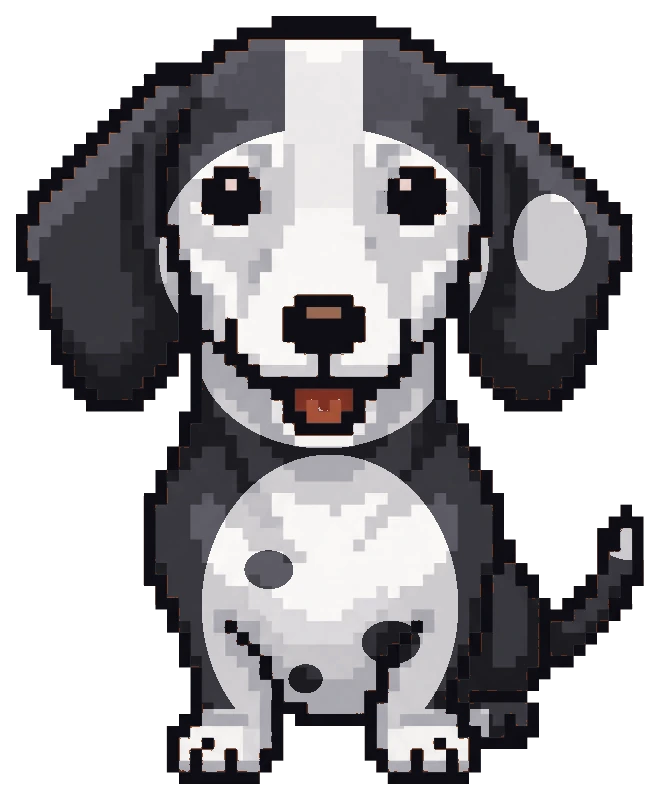
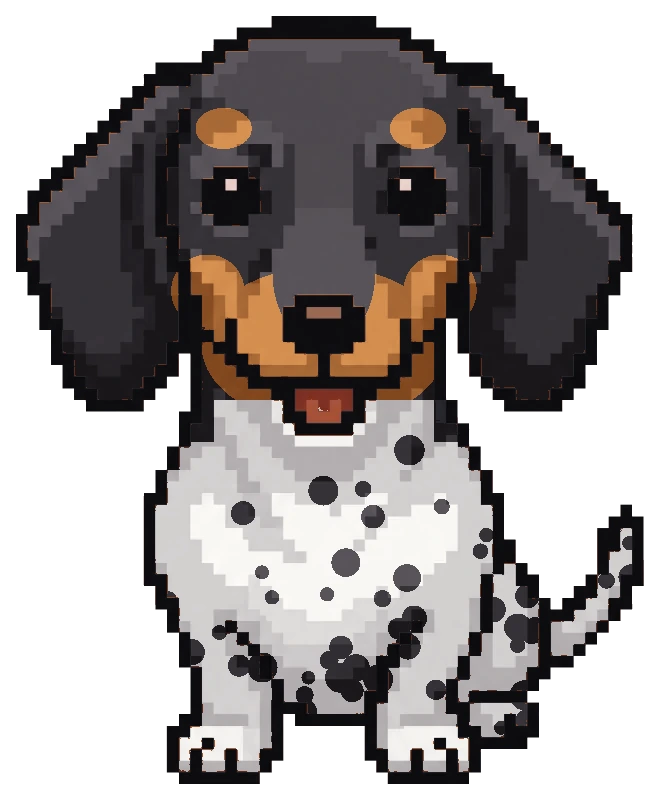
[도트 강아지] 닥스훈트를 블랙 앤 탄 대플로 — 검은 머리·탄 눈썹·주둥이, 흰 몸에 검은 잔점
Claude-Session: https://claude.ai/code/session_01D364GF868k3HTded8WiX4b

Changed region(s): [[0.2121, 0.0312, 0.9697, 0.9375], [0.3636, 0.6875, 0.4545, 0.75], [0.4848, 0.6875, 0.5455, 0.75]]

diff --git a/azit-room.js b/azit-room.js
@@ -20,7 +20,7 @@
     { id: 'maltese',   breed: '말티즈',   fur: '#e8e6df', sizes: 's' },
     { id: 'knit',      breed: '파란 니트', fur: '',        sizes: '' },    // 니트를 입은 그림이라 대신 보여 주기엔 안 씀(고르기만)
     { id: 'chihuahua', breed: '치와와',   fur: '#d6a874', sizes: 's' },
-    { id: 'dachs',     breed: '닥스훈트', fur: '#3a3a40', sizes: 'sm' },   // 11/27 검정·흰 얼룩으로 다시 칠함(_dev/dachs-piebald.py) — 털색 맞추기도 짙은 색 쪽
+    { id: 'dachs',     breed: '닥스훈트', fur: '#3a3a40', sizes: 'sm' },   // 11/27 블랙 앤 탄 대플로 다시 칠함(_dev/dachs-piebald.py) — 털색 맞추기도 짙은 색 쪽
     { id: 'jindo',     breed: '진돗개',   fur: '#f0e6d6', sizes: 'ml' },
     { id: 'shiba',     breed: '시바',     fur: '#e2a464', sizes: 'ml' }
   ];
@@ -507,7 +507,7 @@
     guessDog: guessDog, dogFromBreed: dogFromBreed, myDog: myDog,
     loadState: loadState, saveState: saveState, unlockedItems: unlockedItems, placedItems: placedItems, accOn: accOn,
     snapshot: snapshot, mySnapshot: mySnapshot, parseRoom: parseRoom, todayKey: todayKey,
-    dogSrc: function (id) { return 'icons/dot-dogs/' + id + '.webp?v=3'; },
-    dogPxSrc: function (id) { return 'icons/dot-dogs/px/' + id + '.png?v=3'; }   // 원래 점 격자 그대로(점 하나 = 한 픽셀) — _dev/dot-dog-native.py
+    dogSrc: function (id) { return 'icons/dot-dogs/' + id + '.webp?v=4'; },
+    dogPxSrc: function (id) { return 'icons/dot-dogs/px/' + id + '.png?v=4'; }   // 원래 점 격자 그대로(점 하나 = 한 픽셀) — _dev/dot-dog-native.py
   };
 })();

diff --git a/dex.html b/dex.html
@@ -144,7 +144,7 @@
 <!-- 화면 QR에 싣는 내 아지트 방 모습(2026-11-23 개방명록 2단계) — 산책 기록으로 생긴 소품을 세려고 reward-rules.js(앞에 spots-data.js)까지 -->
 <script src="spots-data.js"></script>
 <script src="reward-rules.js?v=12"></script>
-<script src="azit-room.js?v=17"></script>
+<script src="azit-room.js?v=18"></script>
 <!-- 사용 통계(2026-11-23 개방명록 1단계): 도감에 넣은 횟수를 QR 종류(화면·키링·지난 캡처)와 처음인지만으로 센다 — 강아지 이름·번호는 안 보냄 -->
 <script src="site-config.js?v=11"></script>
 <script src="inapp.js?v=5"></script>

diff --git a/constellation-sian.html b/constellation-sian.html
@@ -114,7 +114,7 @@
 <script src="store.js?v=2"></script>
 <script src="site-config.js?v=12"></script>
 <script src="canvas-view.js?v=1"></script>
-<script src="azit-room.js?v=17"></script>
+<script src="azit-room.js?v=18"></script>
 <link rel="stylesheet" href="theme-black.css?v=3"><script src="theme.js?v=15"></script>
 </head>
 <body>

diff --git a/azit.html b/azit.html
@@ -367,7 +367,7 @@
 <script src="spots-data.js"></script>
 <script src="reward-rules.js?v=12"></script>
 <script src="dex-card.js?v=6"></script>
-<script src="azit-room.js?v=17"></script>
+<script src="azit-room.js?v=18"></script>
 <script src="photo-dot.js?v=2"></script>
 <script src="friends-cloud.js?v=1"></script>
 <script>

diff --git a/_dev/dachs-piebald.py b/_dev/dachs-piebald.py
@@ -15,37 +15,48 @@ PW, PH = 54, 66   # 점 그림 크기 — 무늬 좌표 기준
 def ell(x, y, cx, cy, rx, ry):
     return ((x - cx) / rx) ** 2 + ((y - cy) / ry) ** 2 <= 1
 
-def white_of(x, y):
-    """점 그림 좌표(실수)에서 흰 칸인지"""
-    w = (np.abs(x - 26.5) <= 3.2) & (y >= 2) & (y <= 24)            # 이마 가운데 흰 줄(블레이즈)
-    w |= ell(x, y, 26.5, 28.5, 10.5, 8.5)                            # 주둥이
-    w |= ell(x, y, 26.5, 21, 13.5, 10.5) & (y >= 9)                 # 얼굴(눈 둘레까지) — 검은 털 위 까만 눈이 묻혀서(11/27 가르시아 "눈이 까매서 좀 그래")
-    w |= ell(x, y, 27, 50, 10.5, 12.5)                               # 가슴·배
-    w |= (y >= 58.5) & (x <= 40)                                      # 앞발
-    w |= ell(x, y, 51.5, 43, 3.2, 3.2)                                # 꼬리 끝
-    w |= ell(x, y, 45, 20, 3.0, 4.0)                                  # 오른쪽 귀 흰 얼룩
-    dots = [(22, 47, 2.0, 1.6), (32, 53, 2.4, 1.8), (25, 56, 1.4, 1.2)]   # 흰 칸 안 검은 점
-    for cx, cy, rx, ry in dots:
-        w &= ~ell(x, y, cx, cy, rx, ry)
-    return w
+# 11/27 가르시아가 보낸 사진 톤("이런 톤으로 다시") — 블랙 앤 탄 대플: 머리·귀는 검정, 눈썹 점·주둥이 양옆·볼은 탄(황갈색),
+# 몸은 흰 바탕에 검은 잔점(대플). 무늬는 점 그림 좌표 — 잔점은 늘 같은 자리(seed 고정)
+rng = np.random.default_rng(27)
+SPOTS = []
+for _ in range(70):                                                   # 몸(목 아래)·꼬리의 검은 잔점
+    cx, cy = rng.uniform(10, 52), rng.uniform(37, 64)
+    SPOTS.append((cx, cy, rng.uniform(0.55, 1.25)))
+
+def part_of(x, y):
+    """0 검정 · 1 흰(대플 바탕) · 2 탄 — 점 그림 좌표(실수)"""
+    body = (y >= 36.5) | ((y >= 33) & (np.abs(x - 26.5) <= 9))      # 목 아래 몸
+    part = np.where(body, 1, 0)
+    tan = ell(x, y, 18.3, 10.6, 2.3, 1.7) | ell(x, y, 34.2, 10.6, 2.3, 1.7)          # 눈썹 점
+    tan |= (ell(x, y, 26.5, 28.5, 10, 6.5) & ~ell(x, y, 26.5, 22.5, 4.2, 6))        # 주둥이 양옆·턱(콧등은 검정)
+    tan |= ell(x, y, 17, 24, 3, 3) | ell(x, y, 36, 24, 3, 3)                         # 볼
+    part = np.where(tan & ~body, 2, part)
+    spot = np.zeros_like(x, bool)
+    for cx, cy, r in SPOTS:
+        spot |= ell(x, y, cx, cy, r, r)
+    part = np.where(body & spot & ~((y >= 60.5) & (x <= 40)), 0, part)            # 잔점(앞발 끝은 깨끗이)
+    return part
 
 def recolor(im):
     a = np.asarray(im.convert("RGBA")).astype(float)
     H, W = a.shape[:2]
     rgb = a[..., :3]; r, g, b = rgb[..., 0], rgb[..., 1], rgb[..., 2]
     lum = 0.3 * r + 0.59 * g + 0.11 * b
-    fur = (a[..., 3] > 0) & (r > g + 18) & (g > b + 8) & (lum > 52) & ~(b > 0.6 * g)   # 갈색 털 — 혀·코 반짝이(파랑이 초록에 가까운 붉은색)·테두리는 빼고
+    fur = (a[..., 3] > 0) & (r > g + 18) & (g > b + 8) & (lum > 52) & ~(b > 0.6 * g)   # 갈색 털 — 혀·코 반짝이·테두리는 빼고
     ys, xs = np.mgrid[0:H, 0:W]
     x = (xs + 0.5) * PW / W; y = (ys + 0.5) * PH / H
-    wh = white_of(x, y)
+    part = part_of(x, y)
     lo, hi = np.percentile(lum[fur], 3), np.percentile(lum[fur], 97)
     t = np.clip((lum - lo) / max(1, hi - lo), 0, 1)[..., None]
-    black = np.array([26, 26, 30]) + t * (np.array([96, 94, 104]) - np.array([26, 26, 30]))
-    white = np.array([168, 166, 174]) + t * (np.array([252, 250, 248]) - np.array([168, 166, 174]))
+    lerp = lambda c0, c1: np.array(c0) + t * (np.array(c1) - np.array(c0))
+    black = lerp([24, 22, 26], [92, 86, 92])          # 윤기 도는 검정(사진처럼 살짝 따뜻하게)
+    white = lerp([176, 172, 174], [252, 250, 247])
+    tan = lerp([128, 70, 30], [216, 146, 82])
+    col = np.where((part == 1)[..., None], white, np.where((part == 2)[..., None], tan, black))
     out = a.copy()
-    out[..., :3] = np.where((fur & wh)[..., None], white, np.where(fur[..., None], black, rgb))
-    dark = (a[..., 3] > 0) & (lum <= 52) & (r > g)                   # 갈색빛 테두리·눈·코 → 같은 어둡기의 무채색(검은 털과 어울리게)
-    out[dark, :3] = np.stack([lum[dark] * 0.85, lum[dark] * 0.85, lum[dark] * 0.95 + 4], -1)
+    out[..., :3] = np.where(fur[..., None], col, rgb)
+    dark = (a[..., 3] > 0) & (lum <= 52) & (r > g)                   # 갈색빛 테두리·눈·코 → 같은 어둡기의 무채색
+    out[dark, :3] = np.stack([lum[dark] * 0.8, lum[dark] * 0.78, lum[dark] * 0.85 + 2], -1)
     return Image.fromarray(np.clip(out, 0, 255).astype(np.uint8), "RGBA")
 
 for k in ("px", "big"):

diff --git a/PROJECT_CONTEXT.md b/PROJECT_CONTEXT.md
@@ -3984,3 +3984,5 @@ Black Han Sans 굵게 뭉개짐 0곳. 실제 폰은 아직.
 - 시험: 닥스로 [아지트] 열기 — 화면 오류 없음.
 - 같은 날 가르시아 "눈이 까매서 좀 그래, 예뻐 보이게": 검은 털 위 까만 눈이 묻혀서 얼굴(눈 둘레까지)을 흰 칸으로 — 정수리·귀만 검정, 눈이 흰 얼굴 위에서 또렷.
 - **배포**: 11/27 가르시아 "배포" — main `4edca93`.
+- 같은 날 가르시아가 사진(블랙 앤 탄 대플 닥스)을 보내며 "이런 톤으로 다시 바꿔 줘": 머리·귀는 윤기 도는 검정, 눈썹 점·주둥이 양옆·볼은 탄(황갈색),
+  목 아래 몸·꼬리는 흰 바탕에 검은 잔점(대플, 자리 고정), 앞발 끝은 깨끗이. 도트 강아지 주소 ?v=4, azit-room.js ?v=18.
